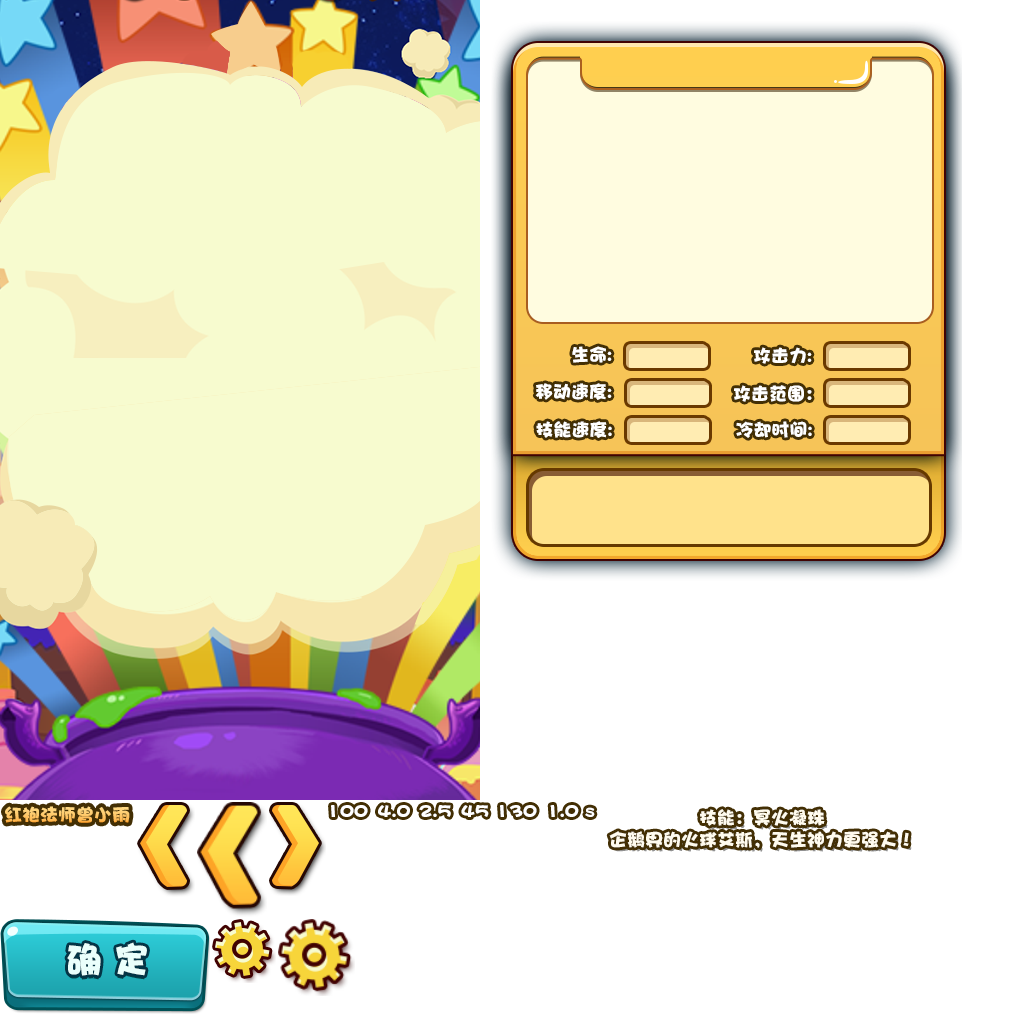
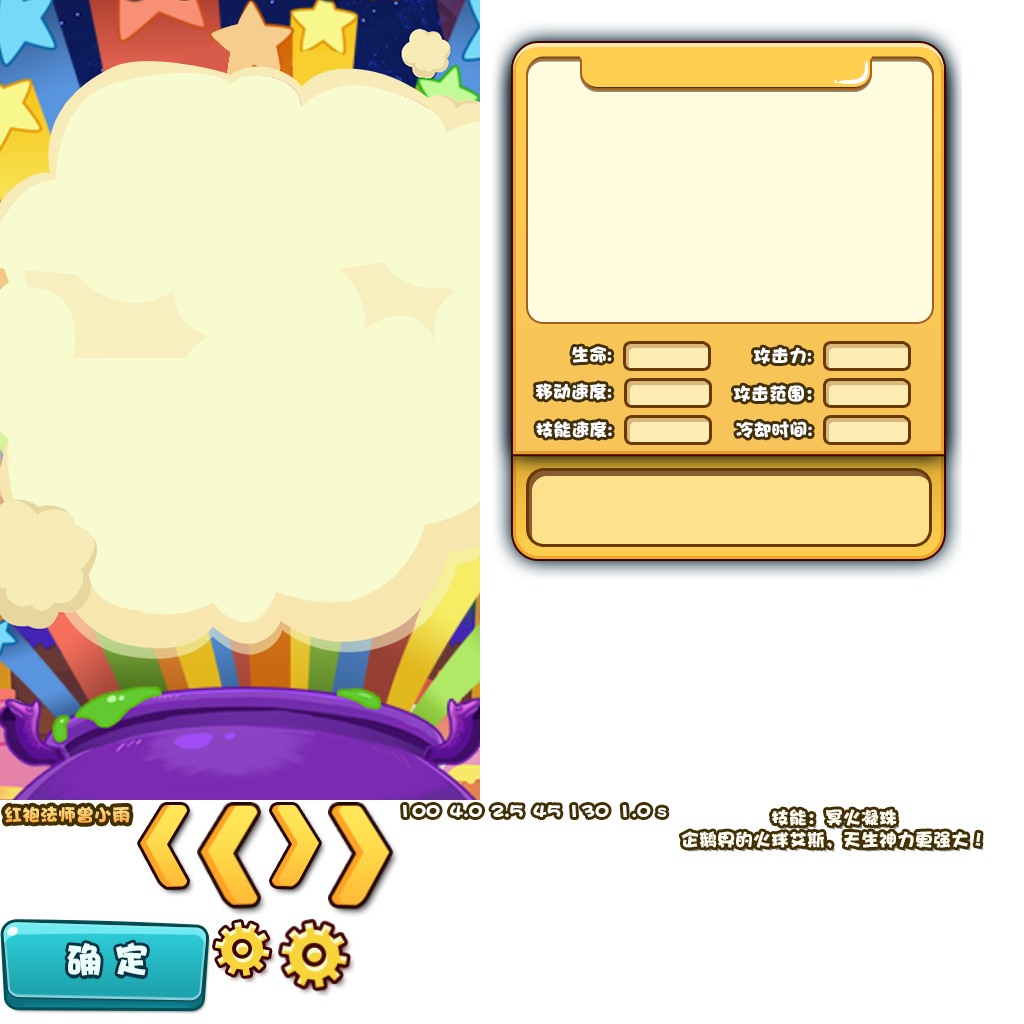
更新选择英雄场景 .....收工!

Changed region(s): [[0.3125, 0.7812, 0.9688, 0.9062]]

diff --git a/Classes/SelectScrene.cpp b/Classes/SelectScrene.cpp
@@ -1,0 +1,165 @@
+#include "SelectScrene.h"
+#include "StartScrene.h"
+#include "GuideScrene.h"
+#include "SoundScrene.h"
+#include "GameInfo.h"
+
+#include "SimpleAudioEngine.h"
+
+using namespace CocosDenshion;
+
+
+CCScene* SelectScrene::scene()
+{
+	CCScene *scene = CCScene::create();
+	CCLayer *layer = SelectScrene::create();
+	scene->addChild(layer);
+	return scene;
+}
+
+bool SelectScrene::init()
+{
+	bool bRet = false;
+	do 
+	{
+		CC_BREAK_IF(! CCLayer::init());
+		ul = UILayer::create();
+		iPos = 0;
+
+		this->addChild(ul);
+		ul->addWidget(CCUIHELPER->createWidgetFromJsonFile("ui/screne_select/screne_select_1.ExportJson"));
+
+		iv_name = dynamic_cast<UIImageView*>(ul->getWidgetByName("iv_heroname"));
+		// TODO::
+		//iv_heroPic
+		iv_HP = dynamic_cast<UIImageView*>(ul->getWidgetByName("iv_hp"));
+		iv_moveSpeed = dynamic_cast<UIImageView*>(ul->getWidgetByName("iv_movespeed"));
+		iv_skillSpeed = dynamic_cast<UIImageView*>(ul->getWidgetByName("iv_skillspeed"));
+		iv_attack = dynamic_cast<UIImageView*>(ul->getWidgetByName("iv_attack"));
+		iv_range = dynamic_cast<UIImageView*>(ul->getWidgetByName("iv_range"));
+		iv_cd = dynamic_cast<UIImageView*>(ul->getWidgetByName("iv_cd"));
+		iv_desc = dynamic_cast<UIImageView*>(ul->getWidgetByName("iv_desc"));
+
+		btnBack = dynamic_cast<UIButton*>(ul->getWidgetByName("btn_back"));
+		btnBack->addReleaseEvent(this, coco_releaseselector(SelectScrene::btnBackCallback));
+
+		btnOK = dynamic_cast<UIButton*>(ul->getWidgetByName("btn_ok"));
+		btnOK->addReleaseEvent(this, coco_releaseselector(SelectScrene::btnOKCallback));
+
+		btnSetting = dynamic_cast<UIButton*>(ul->getWidgetByName("btn_setting"));
+		btnSetting->addReleaseEvent(this, coco_releaseselector(SelectScrene::btnSettingCallback));
+
+		btnLeft = dynamic_cast<UIButton*>(ul->getWidgetByName("btn_left"));
+		btnLeft->addReleaseEvent(this, coco_releaseselector(SelectScrene::btnLeftCallback));
+
+		btnRight = dynamic_cast<UIButton*>(ul->getWidgetByName("btn_right"));
+		btnRight->addReleaseEvent(this, coco_releaseselector(SelectScrene::btnRightCallback));
+
+		updateHeroInfo(iPos);
+
+		ul->setTouchEnabled(true);
+		bRet = true;
+	} while (0);
+
+	return bRet;
+}
+
+void SelectScrene::updateHeroInfo(int pos)
+{
+	const char *sHeroName;
+	switch (pos)
+	{
+	case 0:
+		sHeroName = "red";
+		break;
+	case 1:
+		sHeroName = "purple";
+		break;
+	case 2:
+		sHeroName = "blue";
+		break;
+	case 3:
+		sHeroName = "yellow";
+		break;
+	default:
+		return ;
+	}
+
+	char sNamePath[50];
+	sprintf(sNamePath, "ui/screne_select/%s/name.png", sHeroName);
+	// TODO :: hero pic
+
+	char sAttackPath[50];
+	sprintf(sAttackPath, "ui/screne_select/%s/at.png", sHeroName);
+
+	char sCDPath[50];
+	sprintf(sCDPath, "ui/screne_select/%s/cd.png", sHeroName);
+
+	char sDescPath[50];
+	sprintf(sDescPath, "ui/screne_select/%s/desc.png", sHeroName);
+
+	char sHPPath[50];
+	sprintf(sHPPath, "ui/screne_select/%s/hp.png", sHeroName);
+
+	char sSkillSpeedPath[50];
+	sprintf(sSkillSpeedPath, "ui/screne_select/%s/ss.png", sHeroName);
+
+	char sMoveSpeedPath[50];
+	sprintf(sMoveSpeedPath, "ui/screne_select/%s/mv.png", sHeroName);
+
+	char sRangePath[50];
+	sprintf(sRangePath, "ui/screne_select/%s/ra.png", sHeroName);
+	
+	iv_name->setTexture(sNamePath);
+	iv_moveSpeed->setTexture(sMoveSpeedPath);
+	iv_skillSpeed->setTexture(sSkillSpeedPath);
+	iv_attack->setTexture(sAttackPath);
+	iv_range->setTexture(sRangePath);
+	iv_cd->setTexture(sCDPath);
+	iv_desc->setTexture(sDescPath);
+	iv_HP->setTexture(sHPPath);
+
+	if (pos == 0)
+		btnLeft->setVisible(false);
+	else if (pos == 3)
+		btnRight->setVisible(false);
+	else
+	{
+		btnLeft->setVisible(true);
+		btnRight->setVisible(true);
+	}
+}
+
+void SelectScrene::btnBackCallback(CCObject *pSender)
+{
+	SimpleAudioEngine::sharedEngine()->playEffect("music/btn.mp3");
+	GI.CurrHeroId = iPos;
+	CCDirector::sharedDirector()->replaceScene(StartScrene::scene());
+}
+
+void SelectScrene::btnOKCallback(CCObject *pSender)
+{
+	SimpleAudioEngine::sharedEngine()->playEffect("music/btn.mp3");
+	GI.CurrHeroId = iPos;
+	CCDirector::sharedDirector()->replaceScene(GuideScrene::scene());
+}
+
+void SelectScrene::btnSettingCallback(CCObject *pSender)
+{
+	SimpleAudioEngine::sharedEngine()->playEffect("music/btn.mp3");
+	CCDirector::sharedDirector()->pushScene(SoundScrene::scene());
+}
+
+void SelectScrene::btnLeftCallback(CCObject *pSender)
+{
+	SimpleAudioEngine::sharedEngine()->playEffect("music/btn.mp3");
+	iPos--;
+	updateHeroInfo(iPos);
+}
+
+void SelectScrene::btnRightCallback(CCObject *pSender)
+{
+	SimpleAudioEngine::sharedEngine()->playEffect("music/btn.mp3");
+	iPos++;
+	updateHeroInfo(iPos);
+}

diff --git a/Classes/SelectScrene.h b/Classes/SelectScrene.h
@@ -1,0 +1,48 @@
+#ifndef SYS_SELECTSCRENE
+#define SYS_SELECTSCRENE
+
+#include "cocos2d.h"
+#include "cocos-ext.h"
+#include "CocoGUILIB/System/CocosGUI.h"
+
+USING_NS_CC;
+USING_NS_CC_EXT;
+
+class SelectScrene : public cocos2d::CCLayer
+{
+public :
+	virtual bool init();
+	static cocos2d::CCScene* scene();
+
+	void btnBackCallback(CCObject *pSender);
+	void btnOKCallback(CCObject *pSender);
+	void btnSettingCallback(CCObject *pSender);
+	void btnLeftCallback(CCObject *pSender);
+	void btnRightCallback(CCObject *pSender);
+
+	void updateHeroInfo(int pos);
+
+	CREATE_FUNC(SelectScrene);
+
+private:
+	int iPos;
+	UILayer *ul;
+
+	UIButton *btnBack;
+	UIButton *btnOK;
+	UIButton *btnSetting;
+	UIButton *btnLeft;
+	UIButton *btnRight;
+
+	UIImageView *iv_name;
+	UIImageView *iv_heroPic;
+	UIImageView *iv_HP;
+	UIImageView *iv_moveSpeed;
+	UIImageView *iv_skillSpeed;
+	UIImageView *iv_attack;
+	UIImageView *iv_range;
+	UIImageView *iv_cd;
+	UIImageView *iv_desc;
+};
+
+#endif

diff --git a/Classes/IntroduceScrene.cpp b/Classes/IntroduceScrene.cpp
@@ -1,5 +1,5 @@
 #include "IntroduceScrene.h"
-#include "GuideScrene.h"
+#include "SelectScrene.h"
 #include "SimpleAudioEngine.h"
 using namespace CocosDenshion;
 
@@ -65,7 +65,7 @@ bool IntroduceScrene::init()
 void IntroduceScrene::tbContinueCallback(cocos2d::CCObject *pSender)
 {
 	SimpleAudioEngine::sharedEngine()->playEffect("music/btn.mp3");
-	CCDirector::sharedDirector()->replaceScene(GuideScrene::scene());
+	CCDirector::sharedDirector()->replaceScene(SelectScrene::scene());
 }
 
 void IntroduceScrene::update(float time)  
@@ -78,7 +78,7 @@ void IntroduceScrene::update(float time)
 	iFramePos++;
 	if (iFramePos == (int)(vFrames.size() - 1))
 	{
-		unschedule(schedule_selector(IntroduceScrene::update));
+		unschedule(schedule_selector(SelectScrene::update));
 	}
 	ivAnimation->setTexture(vFrames[iFramePos].c_str());
 	if (fTotalTime >= CHANGE_DIALOG_INTERVAL)

diff --git a/Classes/AppDelegate.cpp b/Classes/AppDelegate.cpp
@@ -3,10 +3,6 @@
 #include "AppDelegate.h"
 #include "LogoScrene.h"
 #include "SimpleAudioEngine.h"
-#include "HelloWorldScene.h"
-#include "FirstStage.h"
-#include "ResultScrene.h"
-#include "GuideScrene.h"
 
 using namespace CocosDenshion;
 
@@ -49,7 +45,7 @@ bool AppDelegate::applicationDidFinishLaunching()
 
 	// create a scene. it's an autorelease object
 	CCScene *pScene = LogoScrene::scene();
-	//CCScene *pScene = GuideScrene::scene();
+	//CCScene *pScene = SelectScrene::scene();
 	//CCScene *pScene = ResultScrene::scene(31750, 1, 35, 20, 680);
 	//CCScene* pScene = FirstStage::scene();
 

diff --git a/Classes/EntityManager.cpp b/Classes/EntityManager.cpp
@@ -98,6 +98,23 @@ Hero* EntityManager::addAHero(CCPoint pos)
 	return NULL;
 }
 
+Hero* EntityManager::addAppointedHero(CCPoint pos)
+{
+	if (GI.Game)
+	{
+		int HeroID = GI.CurrHeroId + 1;
+		sprintf(GSHero, "spirit/hero/Hero%d", HeroID);
+		Hero* pHero = Hero::create(strcat(GSHero, "_D_1.png"), HeroID);
+		GI.Game->addChild(pHero);
+		pHero->setPosition(pos);
+		m_pAllHeros->addObject(pHero);
+		GI.Helper->setGridInUsed(pos, true);
+		return pHero;
+	}
+
+	return NULL;
+}
+
 char GSMons[35];
 
 Monster* EntityManager::addAMonster(CCPoint pos)

diff --git a/Classes/FirstStage.cpp b/Classes/FirstStage.cpp
@@ -84,8 +84,11 @@ void FirstStage::onEnter()
 	CCAssert((GI.Me == NULL), "Me is not null");
 	GI.Me = pQueue;
 	GI.Me->retain();
-
-	Hero* p1 = EM.addAHero(GI.Helper->getGridCenter(21, 11));
+	Hero* p1;
+	if (GI.CurrHeroId >=0 && GI.CurrHeroId <=3)
+		p1 = EM.addAppointedHero(GI.Helper->getGridCenter(21, 11));
+	else
+		p1 = EM.addAHero(GI.Helper->getGridCenter(21, 11));
 	p1->setMoveVector(ccp(0, -1));
 	GI.Me->addAMember(p1);
 	GI.Me->refreshMembers();

diff --git a/Classes/StartScrene.cpp b/Classes/StartScrene.cpp
@@ -36,7 +36,7 @@ bool StartScrene::init()
 void StartScrene::tbSettingCallback(cocos2d::CCObject *pSender)
 {
 	SimpleAudioEngine::sharedEngine()->playEffect("music/btn.mp3");
-	CCDirector::sharedDirector()->replaceScene(SoundScrene::scene());
+	CCDirector::sharedDirector()->pushScene(SoundScrene::scene());
 }
 
 void StartScrene::tbStartGameCallback(cocos2d::CCObject *pSender)

diff --git a/Classes/SoundScrene.cpp b/Classes/SoundScrene.cpp
@@ -43,7 +43,7 @@ bool SoundScrene::init()
 void SoundScrene::btnBackCallback(cocos2d::CCObject *pSender)
 {
 	SimpleAudioEngine::sharedEngine()->playEffect("music/btn.mp3");
-	CCDirector::sharedDirector()->replaceScene(StartScrene::scene());
+	CCDirector::sharedDirector()->popScene();
 }
 
 CCScene* SoundScrene::scene()
